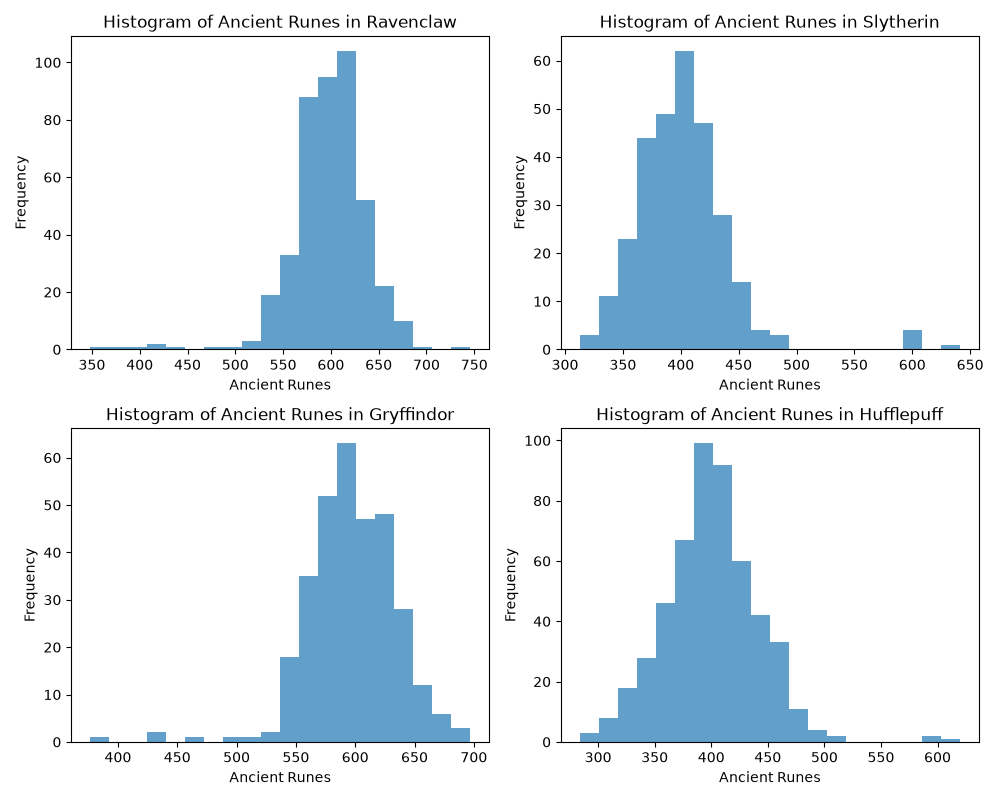
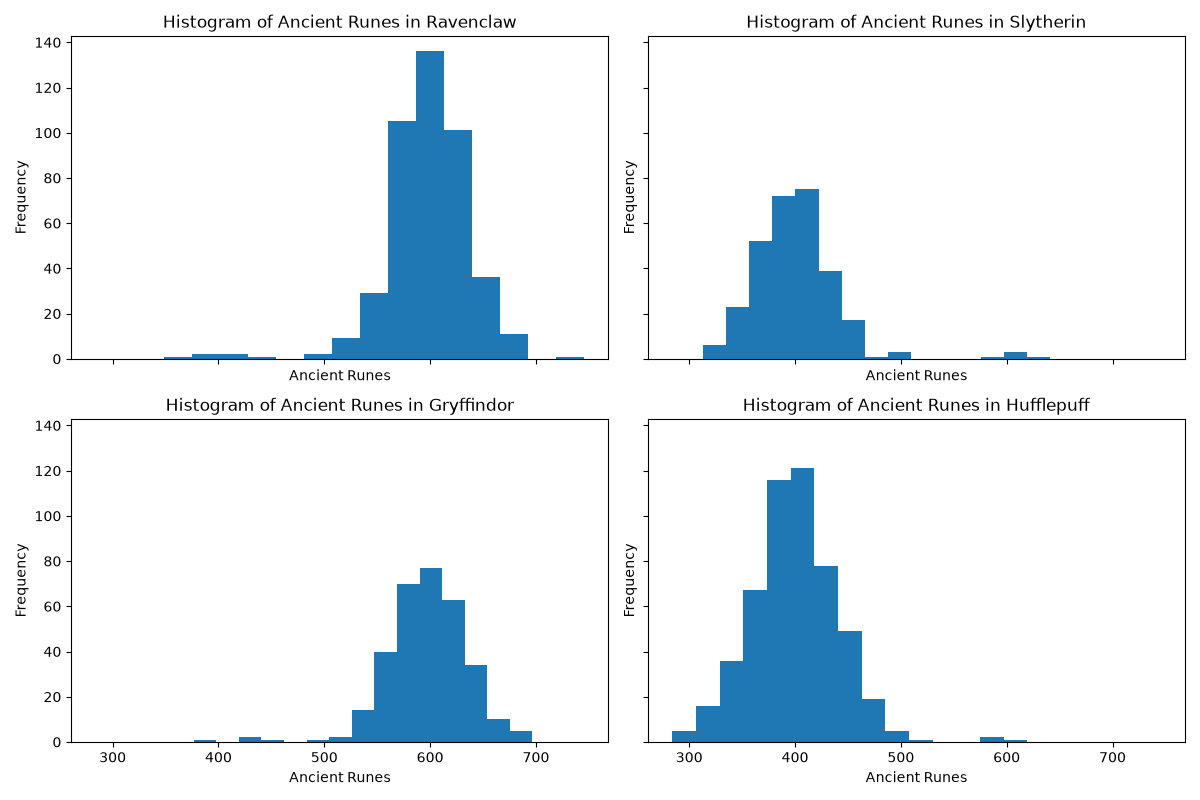
find Hogwarts course has a homogeneous score distribution between all four houses

diff --git a/histogram.py b/histogram.py
@@ -6,10 +6,10 @@ import Describe
 def visualisation_histogramme(df, matiere):
     os.makedirs("histograms", exist_ok=True)
     maisons = df["Hogwarts House"].dropna().unique()
-    fig, ax = plt.subplots(2, 2, figsize=(10, 8))
+    fig, ax = plt.subplots(2, 2, figsize=(12, 8), sharex=True, sharey=True)
     for i, maison in enumerate(maisons):
         data = df[df["Hogwarts House"] == maison][matiere].dropna()
-        ax[i // 2, i % 2].hist(data, bins=20, alpha=0.7)
+        ax[i // 2, i % 2].hist(data, bins=15)
         ax[i // 2, i % 2].set_title(f"Histogram of {matiere} in {maison}")
         ax[i // 2, i % 2].set_xlabel(matiere)
         ax[i // 2, i % 2].set_ylabel("Frequency")
@@ -28,6 +28,14 @@ def calcule_stats(df, matiere):
             "std_dev": Describe.StandardDeviation(data, Describe.Mymean(data, len(data)), len(data)),
         }
     return stats
+
+def compare_stats(stats, maisons, matiere):
+    for maison in maisons:
+        print(f"Statistics for {matiere} in {maison}:")
+        print(f"Mean: {stats[maison]['mean']:.6f}")
+        print(f"Median: {stats[maison]['median']:.6f}")
+        print(f"Standard Deviation: {stats[maison]['std_dev']:.6f}")
+
 def main():
     df = pd.read_csv("datasets/dataset_train.csv")
     matieres = [
@@ -49,10 +57,8 @@ def main():
     for matiere in matieres:
         visualisation_histogramme(df, matiere)
         stats = calcule_stats(df, matiere)
-        for maison, stat in stats.items():
-            print(f"Stats for {matiere} in {maison}:")
-            for key, value in stat.items():
-                print(f"  {key}: {value}")
-        print("--------------------------------------------------------")
+        compare_stats(stats, df["Hogwarts House"].dropna().unique(),matiere)
+        print("===============================================")
+    print("Hogwarts course has a homogeneous score distribution between all four houses for the course: Care of Magical Creatures")
 if __name__ == "__main__":
     main()
